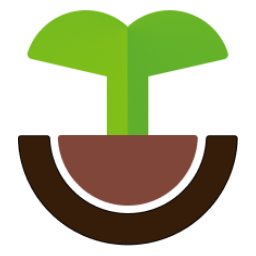
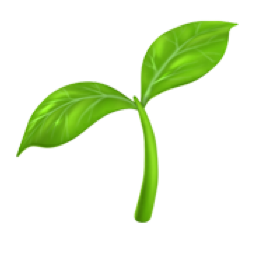
design: 파비콘·OG 카드도 🌱 이모지로 통일
SC-01을 이모지로 바꾼 것에 맞춰 브랜드 마크를 한 얼굴로 맞춘다.

- icon.png(256·투명) · favicon.ico(64) · apple-icon.png(180) 재생성
- apple-icon 배경은 라임 → ink — 라임 위에선 초록 새싹이 묻히고,
  검정 위에서 가장 또렷하다(16·24·32px로 비교해 확정)
- OG 카드 왼쪽 락업을 라임 사각형+로고 이미지 → 🌱 + "식집사" 워드마크로
- public/images/logo_icon.png는 참조 없음(되돌릴 여지를 위해 파일은 유지)

diff --git a/CLAUDE.md b/CLAUDE.md
@@ -134,9 +134,9 @@
 
 ### 파비콘·링크 미리보기
 
-- 로고 원본은 `public/images/logo_icon.png` 하나뿐 — 아이콘류는 전부 여기서 파생시킨다
-- **탭 파비콘은 투명 풀블리드** — 라임 배경에 올리면 초록 새싹이 배경에 묻히고, `ink`에 올리면 갈색 화분이 묻힌다. 16px에서 둘 다 읽히는 건 배경 없는 원본뿐(실제로 16·24·32px로 비교해 확정)
-- OG 카드는 **좌우 2단** — 왼쪽은 로고 락업 · 3줄 헤드라인 · 기능 칩 3개, 오른쪽은 실제 앱 카드 미리보기 3장. 배경은 `ink`(다크), 오른쪽에 라임 방사형 그라디언트를 아주 옅게
+- 브랜드 마크는 **🌱 이모지**로 통일(2026-08-25) — SC-01 입구 화면 · 파비콘 3종 · OG 카드가 모두 같은 얼굴. `public/images/logo_icon.png`는 더 이상 아이콘 파생에 쓰지 않는다
+- **탭 파비콘은 투명 풀블리드** — 라임 배경에 올리면 초록 새싹이 묻힌다(16·24·32px로 비교해 확정). 불투명이 필수인 iOS 홈 아이콘(`apple-icon.png`)만 예외로 **`ink` 배경** — 라임은 여기서도 묻히고, 초록 새싹은 검정 위에서 가장 또렷하다
+- OG 카드는 **좌우 2단** — 왼쪽은 🌱 + "식집사" 워드마크 · 3줄 헤드라인 · 기능 칩 3개, 오른쪽은 실제 앱 카드 미리보기 3장. 배경은 `ink`(다크), 오른쪽에 라임 방사형 그라디언트를 아주 옅게
   - 오른쪽 카드는 앱 UI와 같은 규칙을 지킬 것 — 물주기 라임 · 분갈이 라벤더 배지, "오늘"만 블랙+라임 강조
   - 카드 안 여백은 위아래를 같게(22px) — 배지와 이름줄 사이만 벌리고 아래를 붙이면 글자가 바닥에 눌린 것처럼 보인다
   - 그라디언트는 캔버스 전체에 깔 것. 일부 영역만 칠하면 경계에 세로 이음매가 남는다
